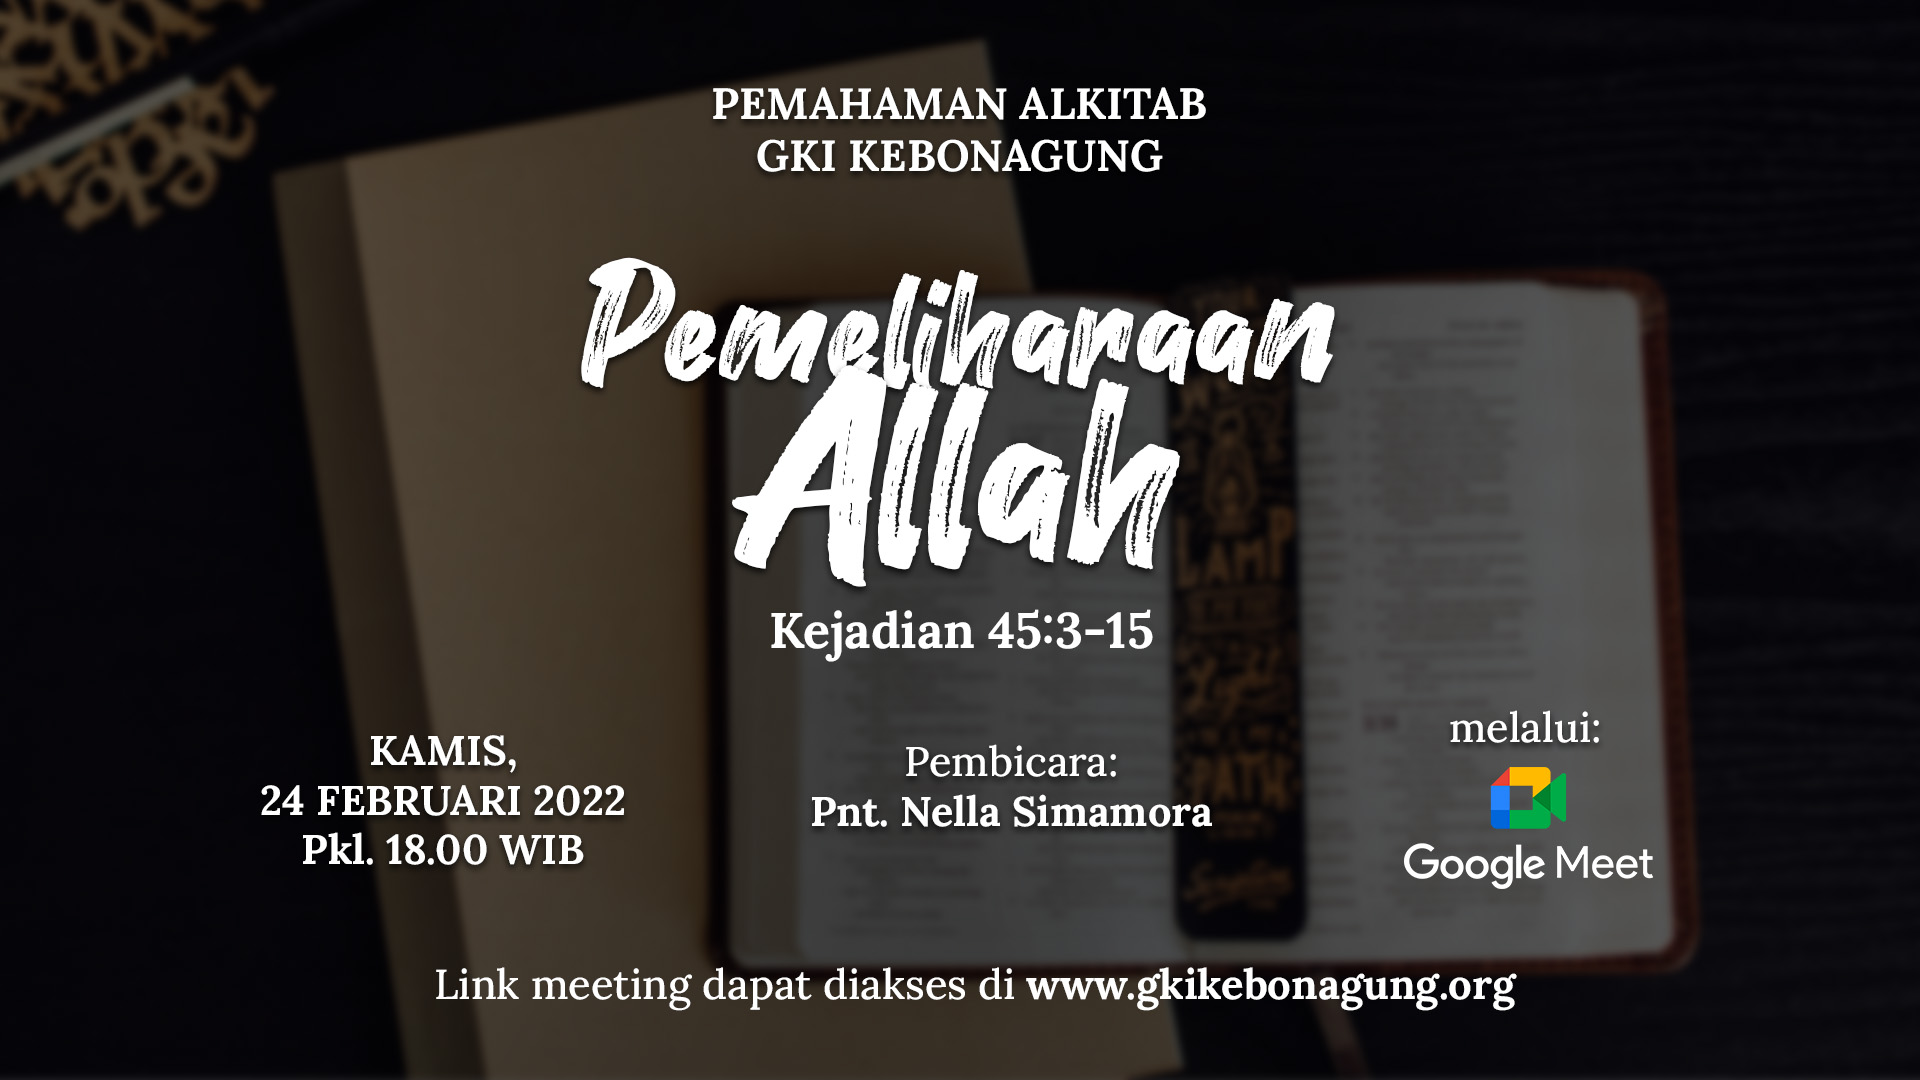
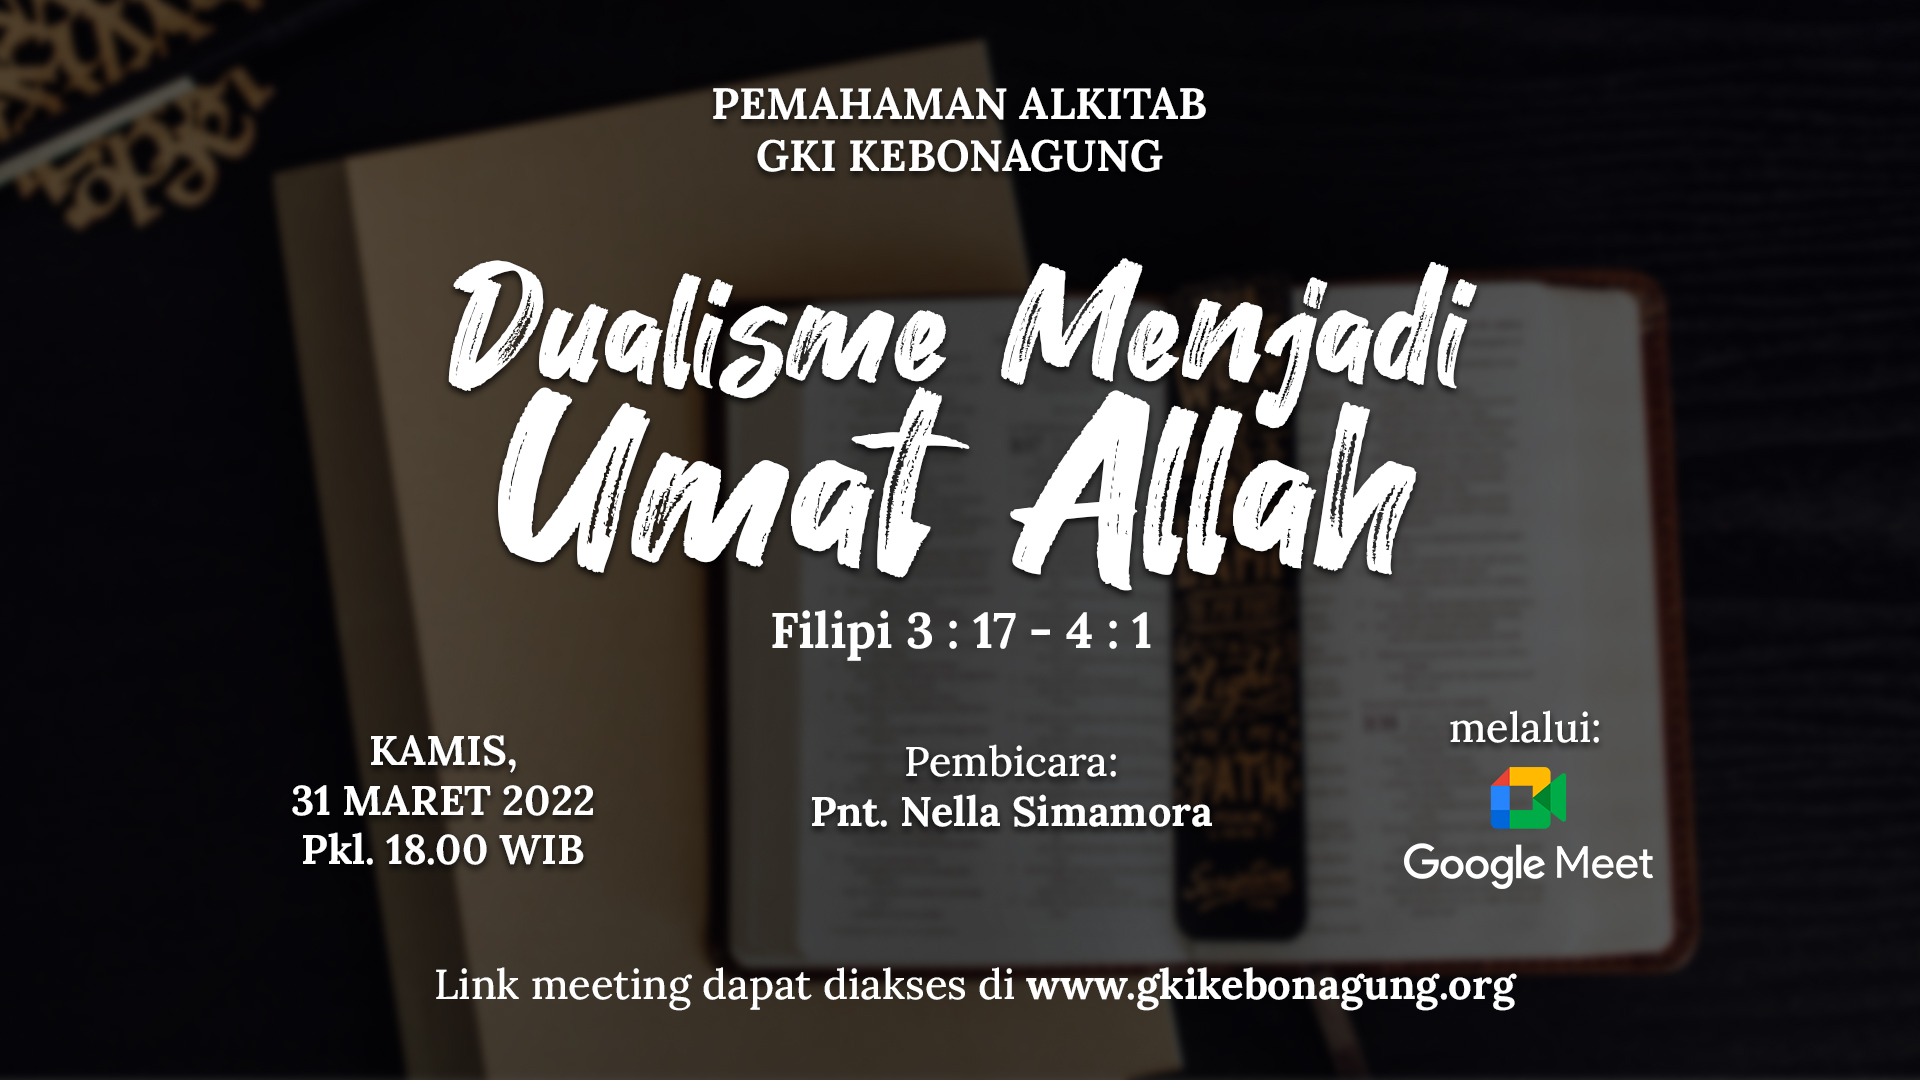
1

Changed region(s): [[0.2188, 0.2444, 0.7812, 0.6111], [0.125, 0.7028, 0.3438, 0.7639]]

diff --git a/application/views/Front/vLandingpage.php b/application/views/Front/vLandingpage.php
@@ -67,7 +67,7 @@
                 <div class="col-lg-8 text-center">
                     <h2 class="text-white mt-0">Pengumuman Penting!</h2>
                     <hr class="divider divider-light" />
-                    <p class="text-white-75">
+                    <!-- <p class="text-white-75">
                         Memperhatikan kondisi kesehatan lingkungan terkait penyebaran covid-19 varian Omicron, maka mulai bulan Februari 2022 kehadiran jemaat di gereja ditentukan dengan jadwal berikut: <br><br>
                         <b class="text-white">Minggu, 20 Februari 2022 - lingkungan A dan B</b><br>
                         <b class="text-white">Minggu, 27 Februari 2022 - lingkungan C, D, dan E</b><br><br>
@@ -85,14 +85,14 @@
                         <b class="text-white">Ibadah Rabu Abu tanggal 2 Maret 2022</b> akan dilaksanakan secara <b class="text-white"><i>hybrid (on-site dan online)</i></b> dengan <b class="text-white">kapasitas maksimal 40 jemaat (tempat duduk lesehan)</b> yang hadir di gereja. <br>
                         <b class="text-white">Syarat menghadiri ibadah <i>on-site</i>: berusia 13-59 tahun, mematuhi protokol kesehatan, dan sudah mendapatkan vaksin.</b><br><br>
                         Jemaat yang ingin hadir dalam ibadah <i>on-site</i> di gereja dapat mendaftarkan diri terlebih dahulu melalui <i>link</i> di bawah ini atau dapat juga melalui koordinator lingkungan masing-masing.
-                    </p> 
+                    </p>  -->
 
-                    <!-- Sehubungan dengan penurunan level PPKM maka ibadah <b class="text-white"><i>onsite-online (hybrid)</i></b> dengan perwakilan jemaat telah dilaksanakan mulai <b class="text-white">31 Oktober 2021</b>. <br><b class="text-white">Syarat: menerapkan protokol kesehatan, sudah mendapatkan vaksin, berusia minimal 13 tahun.</b><br><br>
-                        
-                        Jemaat yang ingin hadir dalam ibadah <i>on-site</i> di gereja dapat mendaftarkan diri terlebih dahulu melalui <i>link</i> di bawah ini atau dapat juga melalui koordinator lingkungan masing-masing.<br><br> -->
-                    
-                    <a class="btn btn-light btn-xl" href="<?= base_url() ?>Fronts/pilihOnsite">DAFTAR IBADAH RABU ABU</a>
-                    <!-- <a class="btn btn-light btn-xl" href="<?= base_url() ?>Fronts/pilihOnsite">DAFTAR IBADAH <i>ON-SITE</i></a> -->
+                    Sehubungan dengan penurunan level PPKM maka ibadah <b class="text-white"><i>onsite-online (hybrid)</i></b> dengan perwakilan jemaat telah dilaksanakan mulai <b class="text-white">3 April 2022</b>. <br><b class="text-white">Syarat: menerapkan protokol kesehatan, sudah mendapatkan vaksin, berusia minimal 13 tahun.</b><br><br>
+
+                    Jemaat yang ingin hadir dalam ibadah <i>on-site</i> di gereja dapat mendaftarkan diri terlebih dahulu melalui <i>link</i> di bawah ini atau dapat juga melalui koordinator lingkungan masing-masing.<br><br>
+
+                    <!-- <a class="btn btn-light btn-xl" href="<?= base_url() ?>Fronts/pilihOnsite">DAFTAR IBADAH RABU ABU</a> -->
+                    <a class="btn btn-light btn-xl" href="<?= base_url() ?>Fronts/pilihOnsite">DAFTAR IBADAH <i>ON-SITE</i></a>
                 </div>
             </div>
         </div>
@@ -113,23 +113,23 @@
                     <div class="mt-5">
                         <div class="card text-center shadow mx-3">
                             <!-- UBAH -->
-                            <a href="https://youtu.be/p57BHr0JDro" target="_blank" class="text-decoration-none">
+                            <a href="https://youtu.be/2rKCZtzbls0" target="_blank" class="text-decoration-none">
                                 <img src="<?= base_url() ?>front/assets/img/umum.jpg" class="card-img-top">
                             </a>
                             <div class="card-body">
                                 <h4 class="card-title">Ibadah Umum</h4>
                                 <!-- UBAH -->
-                                <p class="card-text">"Kemah Allah Seluas Dunia"<br>Minggu, 27 Februari 2022 - 07.00 WIB<br>Pdt. Michael Chandra Wijaya <br>(GKI Jember)</p>
+                                <p class="card-text">"Makna Pengurapan Yesus"<br>Minggu, 3 April 2022 - 07.00 WIB<br>Pdt. Imanuel Gunawan Prasidi</p>
                             </div>
                             <div class="card-body">
                                 <!-- UBAH -->
-                                <!-- <a href="<?= base_url() ?>Fronts/pilihOnsite" class="btn btn-primary mb-2 px-5 mx-1" style="border-radius: 10rem; font-size: 11pt">Onsite</a> -->
-                                <a href="https://youtu.be/p57BHr0JDro" target="_blank" class="btn btn-primary mb-2 px-5 mx-1" style="border-radius: 10rem; font-size: 11pt">Online</a>
+                                <a href="<?= base_url() ?>Fronts/pilihOnsite" class="btn btn-primary mb-2 px-5 mx-1" style="border-radius: 10rem; font-size: 11pt">Onsite</a>
+                                <a href="https://youtu.be/2rKCZtzbls0" target="_blank" class="btn btn-primary mb-2 px-5 mx-1" style="border-radius: 10rem; font-size: 11pt">Online</a>
                             </div>
                         </div>
                     </div>
                 </div>
-                <div class="col-lg-4 text-center">
+                <div class="col-lg-4 text-center d-none">
                     <div class="mt-5">
                         <div class="card text-center shadow mx-3">
                             <!-- UBAH -->
@@ -167,21 +167,21 @@
                         </div>
                     </div>
                 </div>
-                <div class="col-lg-4 text-center d-none">
+                <div class="col-lg-4 text-center">
                     <div class="mt-5">
                         <div class="card text-center shadow mx-3">
                             <!-- UBAH -->
-                            <a href="https://meet.google.com/knm-huzf-zcd" target="_blank" class="text-decoration-none">
+                            <a href="https://meet.google.com/wit-jxou-izc" target="_blank" class="text-decoration-none">
                                 <img src="<?= base_url() ?>front/assets/img/pa.jpg" class="card-img-top">
                             </a>
                             <div class="card-body">
                                 <h4 class="card-title">Pemahaman Alkitab</h4>
                                 <!-- UBAH -->
-                                <p class="card-text">"Pemeliharaan Allah"<br>Kamis, 24 Februari 2022 - 18.00 WIB <br>Pnt. Nella Simamora</p>
+                                <p class="card-text">"Dualisme Menjadi Umat Allah"<br>Kamis, 31 Maret 2022 - 18.00 WIB <br>Pnt. Nella Simamora</p>
                             </div>
                             <div class="card-body">
                                 <!-- UBAH -->
-                                <a href="https://meet.google.com/knm-huzf-zcd" target="_blank" class="btn btn-primary mb-2 px-5" style="border-radius: 10rem; font-size: 11pt">Link</a>
+                                <a href="https://meet.google.com/wit-jxou-izc" target="_blank" class="btn btn-primary mb-2 px-5" style="border-radius: 10rem; font-size: 11pt">Link</a>
                             </div>
                         </div>
                     </div>

diff --git a/application/controllers/Ibadah.php b/application/controllers/Ibadah.php
@@ -47,7 +47,7 @@ class Ibadah extends CI_Controller
             $this->load->view('Templates/vFooter');
         }
     }
-
+    
     public function selesaiDaftar($id, $kodeIbadah)
     {
         if (_checkUser()) {
